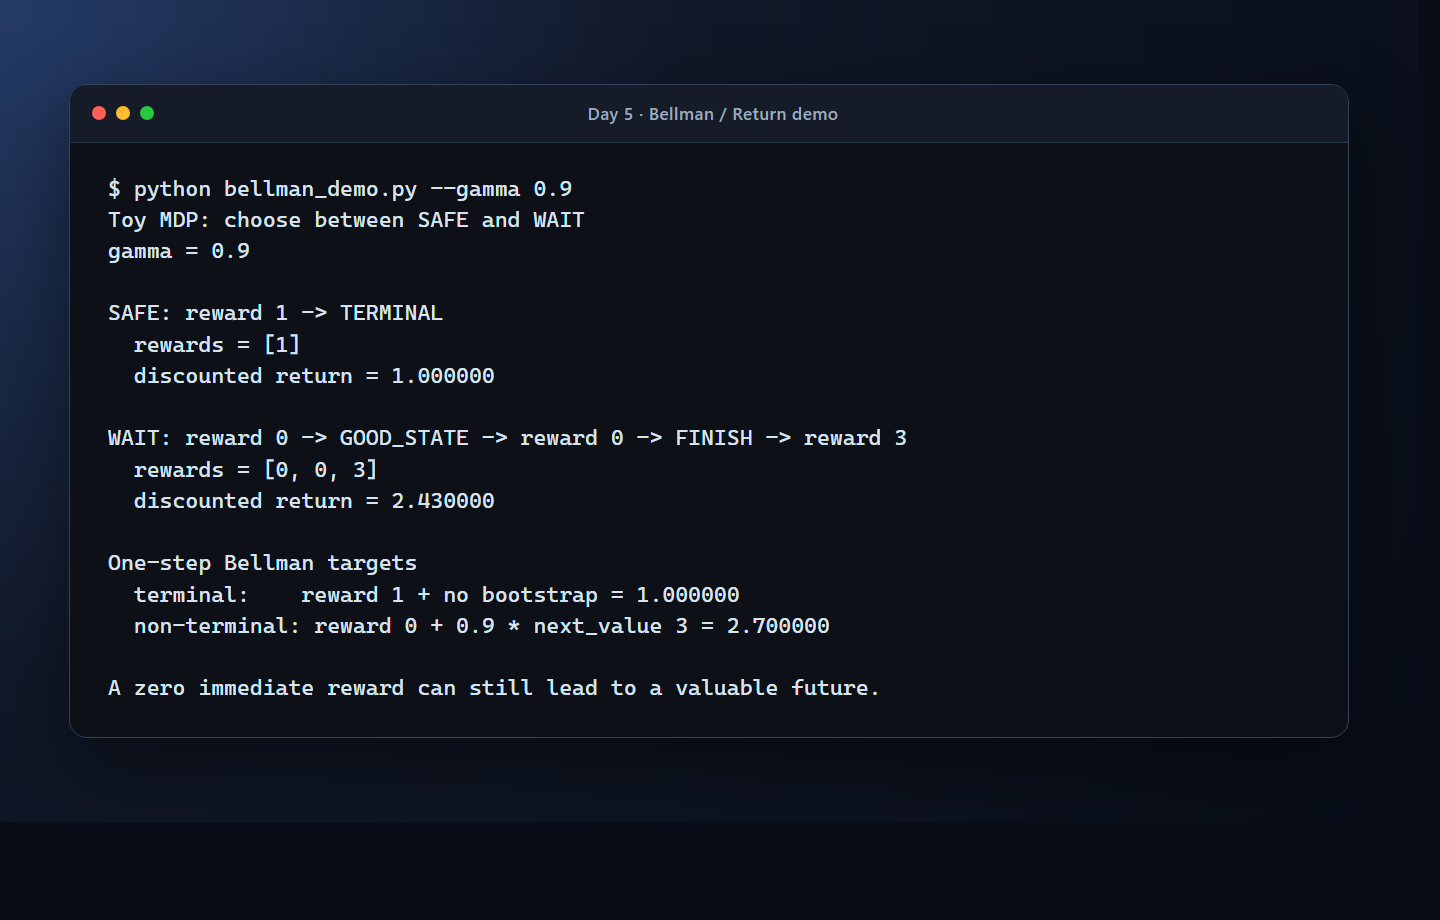
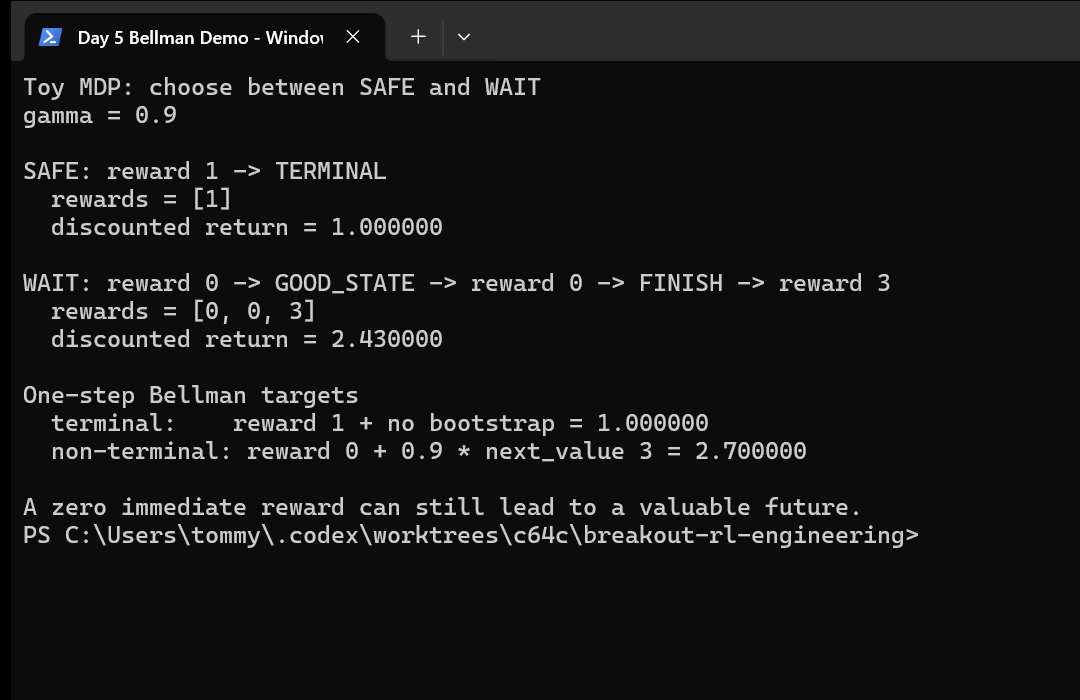
Use real Windows evidence in Day 5 article

Changed region(s): [[0.0, 0.0, 1.0, 0.9], [0.3056, 0.3, 0.4278, 0.36]]

diff --git a/docs/day05-mdp-bellman-equation.md b/docs/day05-mdp-bellman-equation.md
@@ -128,8 +128,8 @@ Q*(s,a) = E[r + gamma × max_a' Q*(s',a')]
 
 專案中的小型 demo 會用上面的 toy MDP 計算兩種數字。執行：
 
-```bash
-python bellman_demo.py --gamma 0.9
+```powershell
+python .\bellman_demo.py --gamma 0.9
 ```
 
 實際輸出的重點如下：
@@ -145,7 +145,9 @@ terminal:    reward 1 + no bootstrap = 1.000000
 non-terminal: reward 0 + 0.9 * next_value 3 = 2.700000
 ```
 
-![Bellman demo 顯示 SAFE、WAIT 與 one-step target 的實際輸出](../assets/day05/bellman-demo-output.png)
+下圖是同一條命令在 Windows PowerShell 的實際執行畫面：
+
+![Windows PowerShell 實際執行 Bellman demo，顯示 SAFE、WAIT 與 one-step target 的輸出](../assets/day05/bellman-demo-output.png)
 
 *在 `gamma = 0.9` 時，WAIT 雖然從 immediate reward `0` 開始，折扣後的 return `2.43` 仍高於 SAFE 的 `1`。*
 
